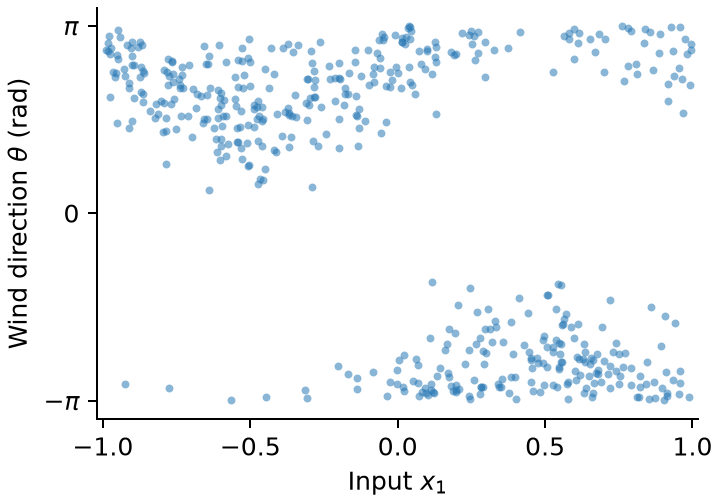
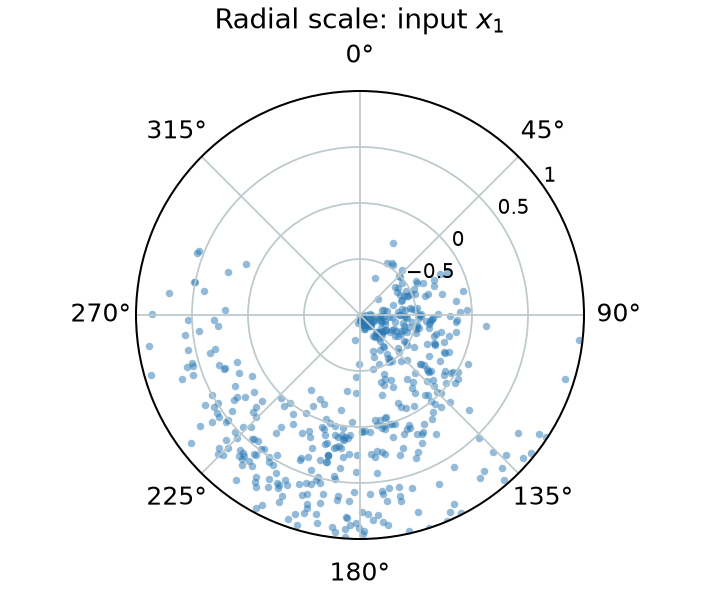
用极坐标展示输入分量与观测风向

diff --git a/index.html b/index.html
@@ -6,7 +6,7 @@
 @media(max-width:900px){header{grid-template-columns:1fr 185px}.layout{gap:27px;grid-template-columns:160px 1fr}.barin,header,.layout,footer>div{padding-inline:24px}}
 .data-equations .eq-line{display:flex;flex-wrap:wrap;align-items:baseline;gap:.25em .2em}.eq-line math{flex:none}
 @media(max-width:720px){.submission-files .path-column{width:8rem}.schematic,.rail{display:none}header,.layout{display:block}.barin,header,.layout,footer>div{padding-inline:20px}header{padding-block:27px}.layout{padding-top:15px}.mobile{display:block;margin:0 0 24px;border-bottom:1px solid var(--line);padding:8px 0 13px}.mobile nav{columns:2;margin-top:8px}.mobile a{font-size:.85rem;break-inside:avoid}.sec{margin-bottom:24px}.math{font-size:1rem}.body h2{font-size:1.45rem}.role{font-size:.86rem}th,td{padding:6px}.actions a{padding:6px 10px}.taskhead{align-items:baseline}}
-.scatter-example{margin:14px 0}.scatter-example figcaption{font-size:.9rem;color:var(--sub)}.scatter-example>div{display:grid;grid-template-columns:repeat(2,minmax(0,1fr));gap:8px;max-width:620px;margin-top:8px}.scatter-example img{width:100%;height:auto}@media(max-width:500px){.scatter-example>div{grid-template-columns:1fr;max-width:300px}}
+.scatter-example{margin:14px 0}.scatter-example figcaption{font-size:.9rem;color:var(--sub)}.scatter-example>div{display:grid;grid-template-columns:repeat(2,minmax(0,1fr));align-items:center;gap:8px;max-width:620px;margin-top:8px}.scatter-example img{width:100%;height:auto}@media(max-width:500px){.scatter-example>div{grid-template-columns:1fr;max-width:300px}}
 @media print{.bar,.rail,.mobile,.actions,.schematic,footer,.skip,.toplink{display:none!important}.layout,header{display:block;max-width:none;padding:0}.layout{margin-top:18px}.hero{background:white}.body{max-width:none}.sec{padding-bottom:8px;margin-bottom:14px}body{font-size:10pt}h1{font-size:24pt}.body h2{font-size:15pt}h2,h3,.taskhead,.num{break-after:avoid}table,pre,.question{break-inside:avoid}details>summary{display:none}details::details-content{display:block;content-visibility:visible}a{color:inherit}body{print-color-adjust:exact}.barin{display:none}}
 </style></head><body id="top"><a class="skip" href="#overview">跳到作业正文</a>
 <div class="bar"><div class="barin"><div class="brand"><span>ML</span>机器学习课程 · 编程作业</div><button class="print" type="button" onclick="window.print()">打印作业</button></div></div>
@@ -23,8 +23,8 @@
 <math xmlns="http://www.w3.org/1998/Math/MathML"><mi>v</mi><mo>∣</mo><mi>x</mi><mo>∼</mo><mtext>Exponential</mtext><mo>(</mo><mtext>rate</mtext><mo>=</mo><mfrac><mn>1</mn><mrow><msub><mi>m</mi><mi>v</mi></msub><mo>(</mo><mi>x</mi><mo>)</mo></mrow></mfrac><mo>)</mo></math>
 </div><p>wrap 把角度折回 [−π, π)，σ 表示 sigmoid。上面的公式只用来造数据。预测新样本时，只给网络输入 <i>x</i>，由网络输出 μ 和 λ。</p></div></section>
 <section class="sec" id="task1"><div class="num">TASK 01</div><div class="taskhead"><h2>生成数据并检查</h2><span class="score">10 分</span></div><p class="role">A 写生成程序，B 检查。</p><ol><li>画两张散点图：一张看输入和风向，一张看输入和风速。标清选了哪个输入分量，以及风向、风速的单位。</li><li>检查风向是否在 [−π, π) 内、风速是否非负。用同一个种子再生成一次，比较两次结果。</li></ol><figure class="scatter-example">
-<figcaption><strong>散点图示例</strong>　横轴都取第一个输入分量，第一张看风向（弧度），第二张看风速（m/s）。这里只展示一组训练数据的前 500 条（种子 510）。请用自己生成的数据作图。</figcaption>
-<div><img src="materials/direction.png" width="720" height="504" loading="lazy" alt="输入分量与风向的散点图，接近正负 π 的观测分布在图的上下两端"><img src="materials/speed.png" width="720" height="504" loading="lazy" alt="输入分量与风速的散点图，风速均为非负值"></div>
+<figcaption><strong>散点图示例</strong>　每个点是一条观测。圆周图用角度表示风向（正上方为 0°，顺时针增加），半径刻度表示第一个输入分量，从圆心的 −1 到外圈的 1。179° 和 −179° 落在 180° 两侧。第二张图用同一输入分量作横轴，纵轴为风速（m/s）。这里只展示一组训练数据的前 500 条（种子 510）。请用自己生成的数据作图。</figcaption>
+<div><img src="materials/direction.png" width="720" height="594" loading="lazy" alt="风向极坐标散点图，圆心到外圈对应输入分量从负一到一，接近正负 π 的点都位于下方"><img src="materials/speed.png" width="720" height="504" loading="lazy" alt="输入分量与风速的散点图，风速均为非负值"></div>
 </figure><p><a href="materials/plot_task1.py" download>下载散点图参考代码</a>。把它放在自己的数据生成脚本旁，导入 <code>from plot_task1 import plot_task1</code>，生成训练数据后调用 <code>plot_task1(X_train, theta_train, v_train)</code>。两张图会保存到当前目录的 <code>results/</code> 中。</p><p><strong>提交材料</strong>　程序放在 <code>src/generate_data.py</code>，两张散点图放在 <code>results/</code>。训练集和验证集用的种子记在 <code>src/README.md</code>。Q1 写在 <code>Answer</code> 里。</p><div class="question"><b>Q1 · 书面问题</b><p>同一个输入，为什么能得到不同的风向和风速？为什么 179° 和 −179° 很接近？</p></div></section>
 <section class="sec" id="task2"><div class="num">TASK 02</div><div class="taskhead"><h2>建立网络与联合 NLL</h2><span class="score">30 分</span></div><p class="role">B 写网络和损失函数，A 检查。</p><ol><li>用一个共享 MLP，接两个输出分支。一个预测中心风向 μ（κ 固定为 8），另一个用 Softplus 输出正的速率 λ。</li><li><strong>手推完整的联合负对数似然（NLL）</strong>。从风向和风速的条件密度出发，写出联合密度、单个样本的 NLL 和整批样本的平均 NLL，再把损失函数写进 <code>loss.py</code>。</li><li>用同一批数据和分布参数，通过 PyTorch 的 <code>log_prob()</code> 算一次 NLL，和自己的结果核对。</li></ol><p><strong>提交材料</strong>　<code>model.py</code>、<code>loss.py</code> 和 <code>test_loss.py</code> 放在 <code>src/</code>。在 <code>Answer</code> 的 Q2 中写出联合 NLL 的<strong>手推过程</strong>，并回答下题。</p><div class="question"><b>Q2 · 书面问题</b><p>为什么 Softplus 输出的 λ 不是风速？它与平均风速有什么关系？为什么联合 NLL 可以写成两项损失之和？</p></div></section>
 <section class="sec" id="task3"><div class="num">TASK 03</div><div class="taskhead"><h2>训练与验证集调参</h2><span class="score">20 分</span></div><p class="role">A 训练模型，B 做对照实验。</p><ol><li>用 Adam 训练至少三种配置。可以改隐藏层数、每层宽度或学习率，记下每次改了什么。</li><li>用验证集 NLL 选模型。如果连续多轮没有改善，就提前停止，保留验证 NLL 最低那一轮的权重。</li><li>训练和验证损失画在同一张图上：训练用实线，验证用点线，图例写清配置。</li></ol><p><strong>提交材料</strong>　程序放在 <code>src/train.py</code>，超参数配置表和训练、验证损失曲线放在 <code>results/</code>。最佳权重 <code>best_model.pt</code> 放在提交文件夹的根目录。Q3 写在 <code>Answer</code> 里。</p><div class="question"><b>Q3 · 书面问题</b><p>为什么不能用测试集选网络超参数？如果训练损失下降而验证损失上升，这说明什么？</p></div></section>

diff --git a/materials/plot_task1.py b/materials/plot_task1.py
@@ -13,15 +13,24 @@ def plot_task1(X, theta, v, out_dir="results"):
     out_dir = Path(out_dir)
     out_dir.mkdir(parents=True, exist_ok=True)
 
-    # 两幅图用同一批样本，各自保留对应的纵轴单位。
-    panels = [(theta, r"Wind direction $\theta$ (rad)", "direction"),
-              (v, "Wind speed (m/s)", "speed")]
-    for values, ylabel, name in panels:
-        fig, ax = plt.subplots(figsize=(4.0, 2.8), layout="constrained")
-        ax.scatter(x1, values, s=10, color="#2878B5", alpha=0.55, linewidths=0)
-        ax.set(xlabel=r"Input $x_1$", ylabel=ylabel, xlim=(-1.02, 1.02))
-        if name == "direction":
-            ax.set_yticks([-np.pi, 0, np.pi], [r"$-\pi$", "0", r"$\pi$"])
-        ax.spines[["right", "top"]].set_visible(False)
-        fig.savefig(out_dir / f"{name}.png", dpi=180)
-        plt.close(fig)
+    # 角度取风向，半径平移 1 以容纳负输入，刻度显示原始 x1。
+    fig, ax = plt.subplots(figsize=(4, 3.3), subplot_kw={"projection": "polar"},
+                           layout="constrained")
+    ax.set_theta_zero_location("N")
+    ax.set_theta_direction(-1)
+    ax.scatter(theta, x1 + 1, s=9, alpha=.5, linewidths=0, color="#2878B5")
+    ax.set_ylim(0, 2)
+    ax.set_yticks([.5, 1, 1.5, 2], labels=["−0.5", "0", "0.5", "1"])
+    ax.set_rlabel_position(55)
+    ax.tick_params(axis="y", labelsize=8)
+    ax.grid(color="#bcc9cd", linewidth=.7)
+    ax.set_title(r"Radial scale: input $x_1$", fontsize=11)
+    fig.savefig(out_dir / "direction.png", dpi=180)
+    plt.close(fig)
+
+    fig, ax = plt.subplots(figsize=(4, 2.8), layout="constrained")
+    ax.scatter(x1, v, s=10, color="#2878B5", alpha=.55, linewidths=0)
+    ax.set(xlabel=r"Input $x_1$", ylabel="Wind speed (m/s)", xlim=(-1.02, 1.02))
+    ax.spines[["right", "top"]].set_visible(False)
+    fig.savefig(out_dir / "speed.png", dpi=180)
+    plt.close(fig)
